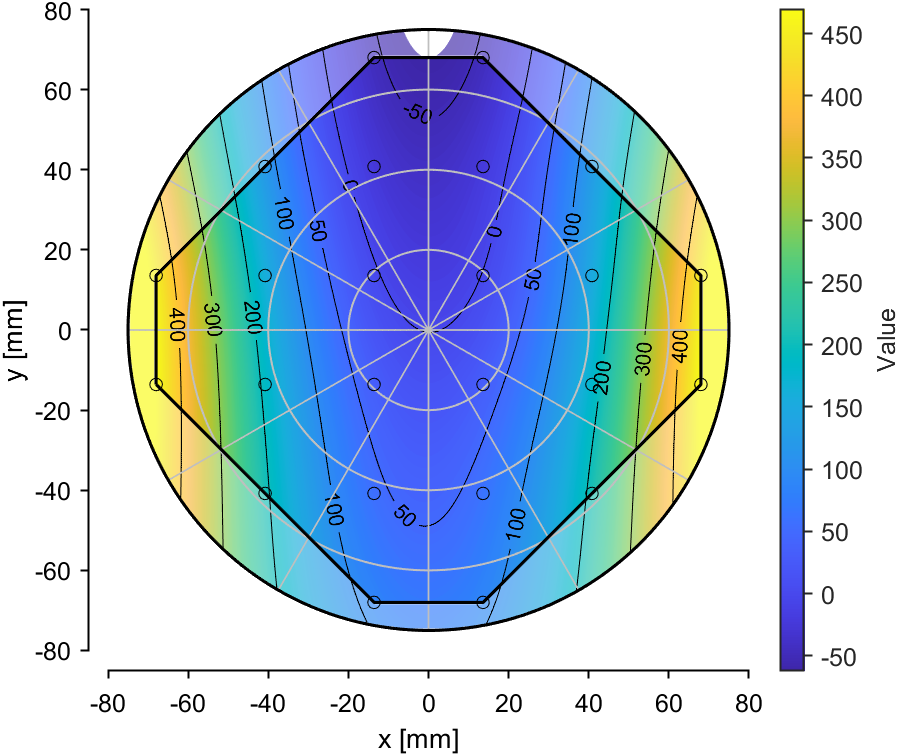
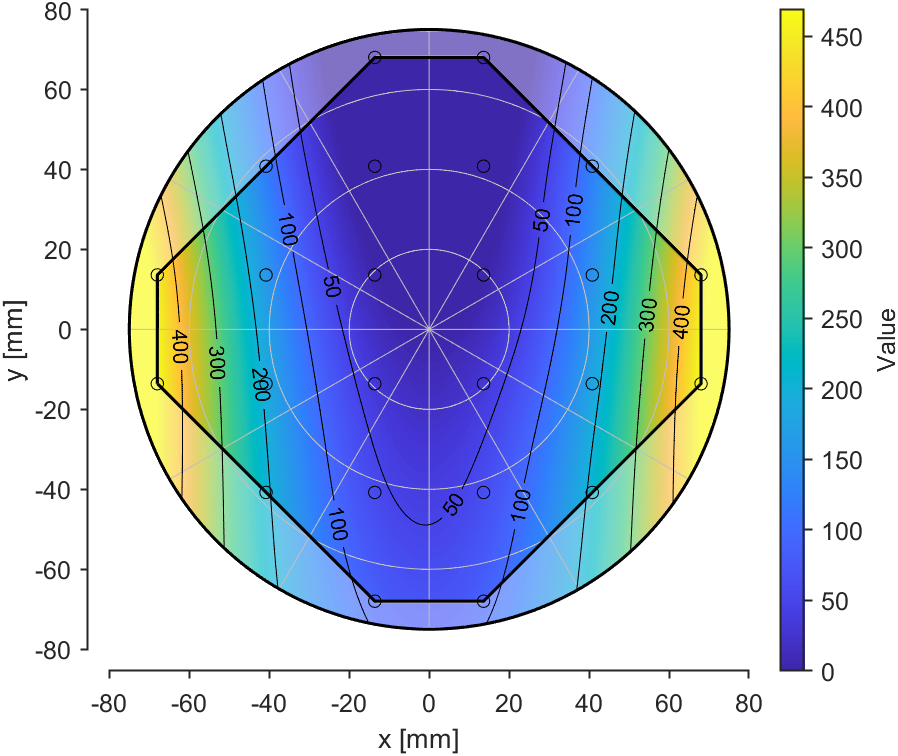
Minor Improvements

diff --git a/WaferPlot.m b/WaferPlot.m
@@ -9,11 +9,11 @@ classdef WaferPlot < handle & ...
 %   (c) Pascal Muster, Germany, 2021
 
 %% Properties
-properties(Constant)
+properties (Constant)
     Version string = '0.1a';
 end
 
-properties(Access=public)
+properties (Access=public)
     
     % Plot Objects
     Figure matlab.ui.Figure
@@ -25,12 +25,12 @@ properties(Access=public)
     
 end
 
-properties(SetObservable,Access=public)
+properties (SetObservable, Access=public)
     
     % Plot properties
     figSize (1,2) double {mustBePositive} = [16,15];
     fontSize (1,1) double {mustBePositive} = 12;
-    waferSize (1,1) double {mustBePositive} = 150;
+    waferSize (1,1) double = 150;
     waferUnit (1,:) char = 'mm'; 
     
     % Interpolation properties
@@ -39,6 +39,7 @@ properties(SetObservable,Access=public)
     interpType (1,:) char  = 'linear';
     interpResolution (1,1) int16 ...
         {mustBeInRange(interpResolution,100,1000)} = 300;
+    interpBounds (1,2) double = [-inf,inf];
     
     % Extrapolation properties
     extrapolate (1,1) logical = true;
@@ -56,7 +57,11 @@ properties(SetObservable,Access=public)
     
 end
 
-properties(Access=protected)
+properties (Dependent)
+  waferRadius double
+end
+
+properties (Access=protected)
     DT % Delaunay Triangles
     CH % Convex Hull
     
@@ -116,13 +121,41 @@ methods(Access=public)
     
 end
 
+methods
+% GET & SET Methods
+    
+    function set.waferSize(obj,val)
+    % WAFERSIZE: Adjust Size if value less equal 0.
+        if val > 0
+            obj.waferSize = val;
+        else
+            obj.waferSize = max(sqrt(obj.xData.^2+obj.yData.^2));
+        end
+    end
+    
+    function set.waferRadius(obj,val)
+    % WAFERSIZE: Adjust Size if value less equal 0.
+        if val > 0
+            obj.waferSize = 2*val;
+        else
+            obj.waferSize = max(sqrt(obj.xData.^2+obj.yData.^2));
+        end
+    end
+    
+    function val = get.waferRadius(obj)
+    % WAFERSIZE: Adjust Size if value less equal 0.
+        val = obj.waferSize/2;
+    end
+    
+end
+
 methods(Access=public)
     
     function obj = interpolateGrid(obj)
     %INTERPOLATEGRID generates interpolation by griddata or rbf.
         
         [X, Y] = ndgrid(... % Create ndgrid in x and y about the full wafer size!
-            linspace(-obj.waferSize/2, +obj.waferSize/2, obj.interpResolution)); 
+            linspace(-obj.waferRadius, +obj.waferRadius, obj.interpResolution)); 
         
         switch lower(obj.interpMethod)
             
@@ -150,8 +183,6 @@ methods(Access=public)
                 ZI = reshape(ZI, size(X));
                 ZE = reshape(ZE, size(X));
                 ZA = reshape(ZA, size(X));
-                ZE(sqrt(X.^2+Y.^2) > obj.waferSize/2) = nan;
-                ZA(sqrt(X.^2+Y.^2) > obj.waferSize/2) = nan;
                 
             otherwise
                 error('Unknown interpolation method "%s".', obj.interpMethod);
@@ -162,15 +193,25 @@ methods(Access=public)
         end
         
         % Save X and Y ndgrids
-        obj.X = X;
-        obj.Y = Y;
+        obj.X = X; obj.Y = Y;
         
-        % Save interpolated (ZI) and extrapolated (ZE) values
-        obj.ZI = ZI;
-        obj.ZE = ZE;
-        obj.ZA = ZA;
+        % Bound Z-Values by interpolation bounds
+        ZI(ZI < obj.interpBounds(1)) = obj.interpBounds(1);
+        ZI(ZI > obj.interpBounds(2)) = obj.interpBounds(2);
+        ZE(ZE < obj.interpBounds(1)) = obj.interpBounds(1);
+        ZE(ZE > obj.interpBounds(2)) = obj.interpBounds(2);
+        ZA(ZA < obj.interpBounds(1)) = obj.interpBounds(1);
+        ZA(ZA > obj.interpBounds(2)) = obj.interpBounds(2);
+        
+        % Bound Z-Values by wafer radius
+        ZI(sqrt(X.^2+Y.^2) > obj.waferRadius) = nan;
+        ZE(sqrt(X.^2+Y.^2) > obj.waferRadius) = nan;
+        ZA(sqrt(X.^2+Y.^2) > obj.waferRadius) = nan;
+        
+        obj.ZI = ZI; obj.ZE = ZE; obj.ZA = ZA;
         
     end
+
 end
 
 methods(Access=public)
@@ -194,14 +235,16 @@ methods(Access=public)
         obj.Axes = nexttile(obj.Tile);
         obj.Axes.FontSize = obj.fontSize;
         
-        axtoolbar(obj.Axes, {'export','datacursor','brush'});
+        axtoolbar(obj.Axes, {'export','datacursor','brush','restoreview'});
         
         obj.Axes.DataAspectRatio = [1,1,1];
         obj.Axes.XLabel.String = ['x [', obj.waferUnit, ']'];
         obj.Axes.YLabel.String = ['y [', obj.waferUnit, ']'];
         
-        obj.Axes.XLim = round([-obj.waferSize/2, +obj.waferSize/2],-1);
-        obj.Axes.YLim = round([-obj.waferSize/2, +obj.waferSize/2],-1);
+        limit = [floor(-obj.waferRadius/10)*10, ceil(obj.waferRadius/10)*10];
+        
+        obj.Axes.XLim = limit;
+        obj.Axes.YLim = limit;
         
         % No outline box
         obj.Axes.Box = 'off';
@@ -210,12 +253,8 @@ methods(Access=public)
         % Draw surface plot
         obj.drawSurface;
         
-        % Draw grid
-        obj.drawGrid(obj.Axes, obj.waferSize/2, ...
-            'LineWidth', 0.8);
-        
         % Draw wafer line circle
-        obj.drawCircle(obj.Axes, obj.waferSize/2, '-', ...
+        obj.drawCircle(obj.Axes, obj.waferRadius, '-', ...
             'LineWidth', 1.5, 'Color', 'black');
         
         obj.drawConvexHull(obj.Axes, obj.xData, obj.yData, '-', ...
@@ -225,12 +264,11 @@ methods(Access=public)
         obj.drawPoints(obj.Axes, obj.xData, obj.yData, 'ko');
         
         % Create despined axes
-        offsetAxes(obj.Axes)
+        despline(obj.Axes,1)
         
         obj.Axes.LineWidth = 1;
         obj.Axes.TickDir = 'out';
-        obj.Axes.XColor = 'black';
-        obj.Axes.YColor = 'black';
+        obj.Axes.YTick = obj.Axes.XTick;
         
     end
     
@@ -241,44 +279,66 @@ methods(Access=public)
             
             case 'contourf'
                 
+                % Filled surfaces
                 [~, h1] = contourf(obj.X, obj.Y, obj.ZI, obj.contourLevels, 'LineStyle', 'None');
-                [~, h2] = contourf(obj.X, obj.Y, obj.ZE, h1.LevelList, 'LineStyle', 'None');
+                if ~all(isnan(obj.ZE), 'all')
+                    [~, h2] = contourf(obj.X, obj.Y, obj.ZE, h1.LevelList, 'LineStyle', 'None');
+                end
+                
+                % Radial grid
+                obj.drawGrid(obj.Axes, obj.waferRadius);
+                
+                % Contour lines
                 [C, h3] = contour(obj.X, obj.Y, obj.ZI, h1.LevelList, 'Color', 'k');
-                [~, h4] = contour(obj.X, obj.Y, obj.ZE, h1.LevelList, 'Color', 'k');
-        
-                % make extrapolation transparent
-                drawnow; % update graphical objects
-                h2Fills = h2.FacePrims;  % array of TriangleStrip objects
-                [h2Fills.ColorType] = deal('truecoloralpha');  % default = 'truecolor'
-                for i = 1 : numel(h2Fills)
-                    h2Fills(i).ColorData(4) = 255*obj.extrapolationAlpha;   % default=255
+                if ~all(isnan(obj.ZE), 'all')
+                    [~, h4] = contour(obj.X, obj.Y, obj.ZE, h1.LevelList, 'Color', 'k');
+                end
+                
+                % Overwrite colors by Alpha
+                if ~all(isnan(obj.ZE), 'all')
+                    % Make extrapolation transparent
+                    drawnow; % update graphical objects
+                    h2Fills = h2.FacePrims;  % Array of TriangleStrip objects
+                    [h2Fills.ColorType] = deal('truecoloralpha');
+                    for i = 1 : numel(h2Fills)
+                        h2Fills(i).ColorData(4) = 255*obj.extrapolationAlpha;
+                    end
                 end
         
             case 'surfc'
                 
-                [~, h1] = contourf(obj.X, obj.Y, obj.ZI, 200, 'LineStyle', 'None');
+                % Filled surfaces
+                [~, h1] = contourf(obj.X, obj.Y, obj.ZI, obj.interpResolution/2, ...
+                    'LineStyle', 'None');
                 if ~all(isnan(obj.ZE), 'all')
-                    [~, h2] = contourf(obj.X, obj.Y, obj.ZE, h1.LevelList, 'LineStyle', 'None');
+                    [~, h2] = contourf(obj.X, obj.Y, obj.ZE, h1.LevelList, ...
+                        'LineStyle', 'None');
                 end
+                
+                % Radial grid
+                obj.drawGrid(obj.Axes, obj.waferRadius);
+                
+                % Contour lines
                 [C, h3] = contour(obj.X, obj.Y, obj.ZI, obj.contourLevels, 'Color', 'k');
                 if ~all(isnan(obj.ZE), 'all')
                     contour(obj.X, obj.Y, obj.ZE, h3.LevelList, 'Color', 'black');
                 end
                 
+                % Overwrite colors by Alpha
                 if ~all(isnan(obj.ZE), 'all')
-                    % make extrapolation transparent
+                    % Make extrapolation transparent
                     drawnow; % update graphical objects
-                    h2Fills = h2.FacePrims;  % array of TriangleStrip objects
-                    [h2Fills.ColorType] = deal('truecoloralpha');  % default = 'truecolor'
+                    h2Fills = h2.FacePrims;  % Array of TriangleStrip objects
+                    [h2Fills.ColorType] = deal('truecoloralpha');
                     for i = 1 : numel(h2Fills)
-                        h2Fills(i).ColorData(4) = 255*obj.extrapolationAlpha;   % default=255
+                        h2Fills(i).ColorData(4) = 255*obj.extrapolationAlpha;
                     end
                 end
                 
             otherwise
                 error('Unknown plot type %s', obj.plotType);
         end
-                
+        
         % contour labels
         clabel(C,h3)
         
@@ -354,11 +414,6 @@ methods(Static=true, Access=public)
     %DRAWGRID draws a major radial grid to the figure.
     
         xticks = axes.XTick(-radius < axes.XTick & axes.XTick < radius);
-        yticks = axes.YTick(-radius < axes.YTick & axes.YTick < radius);
-        
-        if ~all(xticks==yticks)
-            error('X- and Y-Ticks not equivalent. Aborting grid creation.');
-        end
         
         % Draw circles
         phi = linspace(0,2*pi,2*365);

diff --git a/WaferPlot_Demo.m b/WaferPlot_Demo.m
@@ -1,15 +1,17 @@
+clear; close; clc;
 %% Example Waferplot
 % Summary of example objective
 
 load Example
 
 A = WaferPlot(xData,yData,zData);
+A.waferSize = 150;
 A.contourLevels = [-100,-50,0,50,100,200,300,400];
 A.interpMethod = 'rbf';
 A.interpType = 'cubic';
+A.interpBounds = [0,inf];
 A.interpolateGrid;
 A.createFigure;
-
 
 %% Section 1 Title
 % Description of first code block
